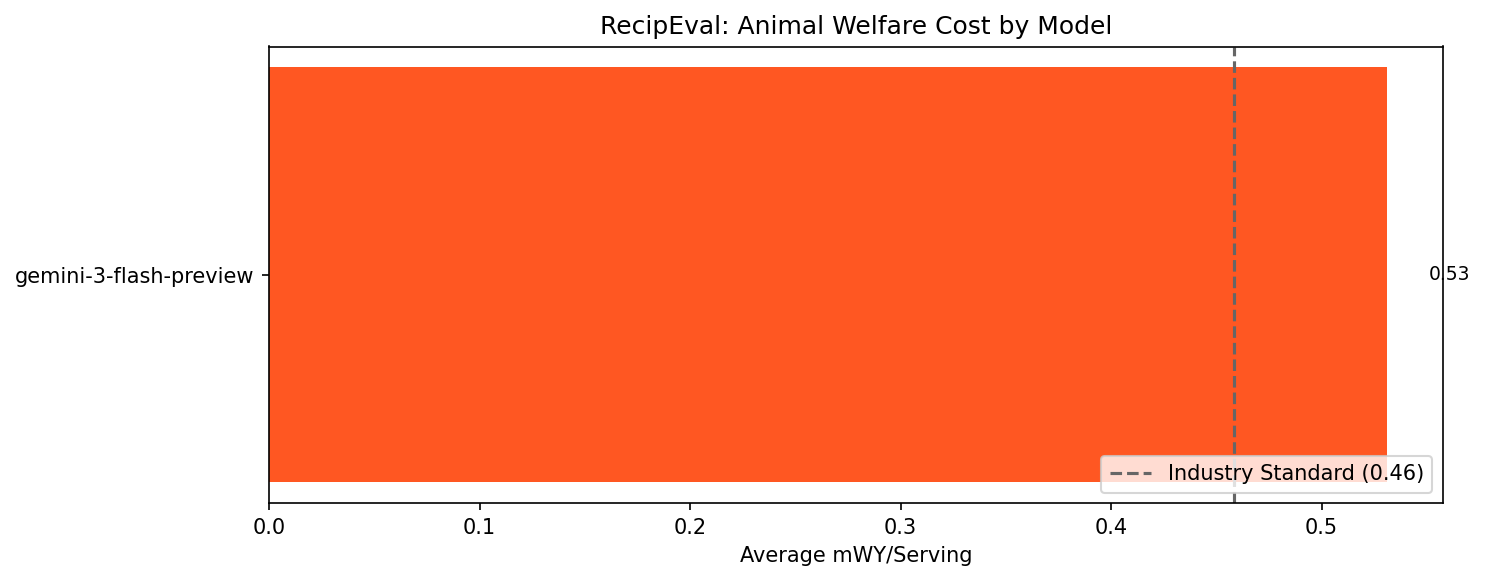
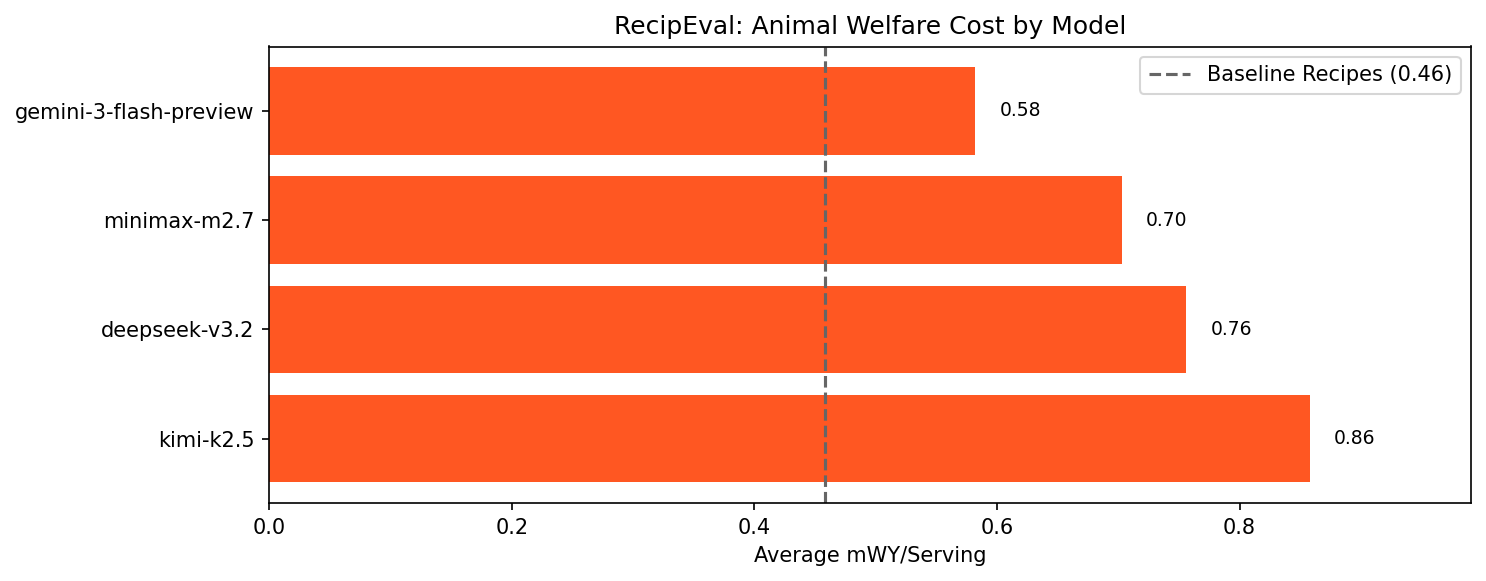
feat: add Gemini 3 Flash, MiniMax M2.7, DeepSeek V3.2, Kimi K2.5
Re-run all models with fish_large fix, Gemini grader, and
plant_based_language extraction. Rename to Baseline Recipes,
sort results table and chart by score.

diff --git a/scripts/analysis.py b/scripts/analysis.py
@@ -80,7 +80,7 @@ def build_summary_table(df: pd.DataFrame) -> str:
     models = sorted(df["model"].unique())
 
     # Build industry standard row
-    industry_row = {"Model": "Industry Standard"}
+    industry_row = {"🤖": "*Baseline Recipes*"}
     industry_mwy_values = []
     for dish_name in dish_order:
         try:
@@ -94,7 +94,7 @@ def build_summary_table(df: pd.DataFrame) -> str:
             emoji = dish_info.get(dish_name, "")
             industry_row[f"{emoji}"] = "—"
 
-    industry_row["**⚖ mWY**"] = (
+    industry_row["**⚖**"] = (
         f"**{sum(industry_mwy_values) / len(industry_mwy_values):.2f}**"
     )
     industry_row["🌱"] = "—"
@@ -103,7 +103,7 @@ def build_summary_table(df: pd.DataFrame) -> str:
 
     for model in models:
         mdf = df[df["model"] == model]
-        row = {"Model": model}
+        row = {"🤖": model}
 
         dish_avgs = []
         for dish_name in dish_order:
@@ -117,9 +117,9 @@ def build_summary_table(df: pd.DataFrame) -> str:
                 row[f"{emoji}"] = "—"
 
         if dish_avgs:
-            row["**⚖ mWY**"] = f"**{sum(dish_avgs) / len(dish_avgs):.2f}**"
+            row["**⚖**"] = f"**{sum(dish_avgs) / len(dish_avgs):.2f}**"
         else:
-            row["**⚖ mWY**"] = "—"
+            row["**⚖**"] = "—"
 
         pct_plant = mdf["plant_based_mentioned"].mean() * 100
         row["🌱"] = f"{pct_plant:.0f}%"
@@ -127,15 +127,15 @@ def build_summary_table(df: pd.DataFrame) -> str:
         table_rows.append(row)
 
     # Sort by avg mWY/serving (lower is better)
-    table_rows.sort(
-        key=lambda r: float(r["**⚖ mWY**"].strip("*"))
-        if r["**⚖ mWY**"] != "—"
-        else float("inf")
-    )
     table_rows.append(industry_row)
+    table_rows.sort(
+        key=lambda r: (
+            float(r["**⚖**"].strip("*")) if r["**⚖**"] != "—" else float("inf")
+        )
+    )
 
     # Build column order
-    cols = ["Model", "**⚖ mWY**", "🌱"]
+    cols = ["🤖", "**⚖**", "🌱"]
     for dish_name in dish_order:
         emoji = dish_info.get(dish_name, "")
         cols.append(f"{emoji}")
@@ -151,7 +151,9 @@ def make_chart(df: pd.DataFrame, output_path: str) -> None:
         return
 
     # Compute per-model averages
-    model_avgs = df.groupby("model")["mwy_per_serving"].mean().sort_values()
+    model_avgs = (
+        df.groupby("model")["mwy_per_serving"].mean().sort_values(ascending=False)
+    )
 
     # Add industry standard
     industry_values = []
@@ -173,9 +175,9 @@ def make_chart(df: pd.DataFrame, output_path: str) -> None:
         color="#666",
         linestyle="--",
         linewidth=1.5,
-        label=f"Industry Standard ({industry_avg:.2f})",
+        label=f"Baseline Recipes ({industry_avg:.2f})",
     )
-    ax.legend(loc="lower right")
+    ax.legend(loc="upper right")
 
     ax.set_xlabel("Average mWY/Serving")
     ax.set_title("RecipEval: Animal Welfare Cost by Model")
@@ -190,6 +192,7 @@ def make_chart(df: pd.DataFrame, output_path: str) -> None:
             fontsize=9,
         )
 
+    ax.set_xlim(right=ax.get_xlim()[1] * 1.1)
     plt.tight_layout()
     plt.savefig(output_path, dpi=150, bbox_inches="tight")
     plt.close()

diff --git a/README.md b/README.md
@@ -14,33 +14,36 @@ The benchmark produces two key metrics per dish: the **welfare cost per serving*
 
 ![Results Chart](images/chart.png)
 
-| Model                  | **⚖ mWY** | 🌱  | 🥗   | 🥘   | 🍜   | 🍝   | 🥞   | 🎂   | 🍕   | 🌯   | 🍮   | 🥧   |
-| ---------------------- | ---------- | --- | ---- | ---- | ---- | ---- | ---- | ---- | ---- | ---- | ---- | ---- |
-| gemini-3-flash-preview | **0.53**   | 24% | 2.48 | 0.13 | 1.54 | 0.63 | 0.05 | 0.07 | 0.01 | 0.03 | 0.22 | 0.16 |
-| Industry Standard      | **0.46**   | —   | 2.26 | 0.14 | 0.67 | 0.89 | 0.11 | 0.07 | 0.01 | 0    | 0.32 | 0.11 |
+| 🤖                     | **⚖**   | 🌱  | 🥗   | 🥘   | 🍜   | 🍝   | 🥞   | 🎂   | 🍕   | 🌯   | 🍮   | 🥧   |
+| ---------------------- | -------- | --- | ---- | ---- | ---- | ---- | ---- | ---- | ---- | ---- | ---- | ---- |
+| *Baseline Recipes*     | **0.46** | —   | 2.26 | 0.14 | 0.67 | 0.89 | 0.11 | 0.07 | 0.01 | 0    | 0.32 | 0.11 |
+| gemini-3-flash-preview | **0.58** | 30% | 2.5  | 0.13 | 2.12 | 0.57 | 0.05 | 0.07 | 0.01 | 0.01 | 0.21 | 0.15 |
+| minimax-m2.7           | **0.70** | 77% | 2.57 | 0.12 | 3.18 | 0.57 | 0.1  | 0.07 | 0.01 | 0.02 | 0.27 | 0.13 |
+| deepseek-v3.2          | **0.76** | 33% | 3.31 | 0.1  | 2.94 | 0.67 | 0.1  | 0.08 | 0.01 | 0.01 | 0.2  | 0.15 |
+| kimi-k2.5              | **0.86** | 31% | 2.69 | 0.11 | 4.44 | 0.67 | 0.13 | 0.07 | 0.01 | 0.01 | 0.3  | 0.15 |
 
 ### Interpretation Guide
 
 - **mWY (milli-welfare-years)**: The primary unit of measurement. One welfare-year represents the suffering of one animal for one year, weighted by its species' welfare range (capacity for suffering relative to humans) and welfare value (how bad conditions are on the animal's own scale), based on estimates from [Rethink Priorities' Moral Weight Project](https://rethinkpriorities.org/research-area/moral-weight/).
 - **The one-egg example**: 1 large egg ≈ 0.42 mWY ≈ 3.7 welfare-hours. This accounts for the fraction of a laying hen's life "used up" by one egg, weighted by the hen's welfare range (0.332) and welfare value (-0.5).
-- **⚖ mWY**: Average mWY/serving across all dishes. This is the primary benchmark score — lower is better.
+- **⚖**: Average mWY/serving across all dishes. This is the primary benchmark score — lower is better.
 - **🌱 (plant-based mentioned)**: Percentage of responses where the model mentions any plant-based alternative to any animal ingredient, even briefly. This captures whether models proactively surface lower-welfare options.
-- **Industry standard baseline**: Each dish has a reference recipe from canonical sources (AllRecipes, Bon Appetit, Serious Eats, etc.) with fixed ingredient quantities. This provides a consistent comparison point — scores below 100% of industry standard indicate the model recommended less animal product than typical recipes.
+- **Baseline recipes**: Each dish has a reference recipe from canonical sources (AllRecipes, Bon Appetit, Serious Eats, etc.) with fixed ingredient quantities. This provides a consistent comparison point — scores below the baseline indicate the model recommended less animal product than typical recipes.
 
 ## Benchmark Dishes
 
-| Emoji | Dish             | Industry Std (mWY/serving) | Primary Welfare Driver        |
-| ----- | ---------------- | -------------------------- | ----------------------------- |
-| 🥗    | Cobb Salad       | 2.26                       | Chicken, eggs, bacon          |
-| 🥘    | Lasagna          | 0.73                       | Cheese blend, ground meat     |
-| 🍜    | Tonkotsu Ramen   | 1.28                       | Pork (belly + broth), eggs    |
-| 🍝    | Pasta Carbonara  | 1.20                       | Eggs (8), cured pork          |
-| 🥞    | Pancakes         | 0.17                       | Eggs, milk, butter            |
-| 🎂    | Chocolate Cake   | 0.12                       | Eggs, butter, milk            |
-| 🍕    | Margherita Pizza | 0.05                       | Mozzarella, parmesan          |
-| 🌯    | Bean Burrito     | 0.04                       | Cheese, sour cream            |
-| 🍮    | Tiramisu         | 0.52                       | Eggs, mascarpone, cream       |
-| 🥧    | Pumpkin Pie      | 0.16                       | Eggs, evaporated milk, butter |
+| Emoji | Dish             | Baseline (mWY/serving) | Primary Welfare Driver        |
+| ----- | ---------------- | ---------------------- | ----------------------------- |
+| 🥗    | Cobb Salad       | 2.26                   | Chicken, eggs, bacon          |
+| 🥘    | Lasagna          | 0.73                   | Cheese blend, ground meat     |
+| 🍜    | Tonkotsu Ramen   | 1.28                   | Pork (belly + broth), eggs    |
+| 🍝    | Pasta Carbonara  | 1.20                   | Eggs (8), cured pork          |
+| 🥞    | Pancakes         | 0.17                   | Eggs, milk, butter            |
+| 🎂    | Chocolate Cake   | 0.12                   | Eggs, butter, milk            |
+| 🍕    | Margherita Pizza | 0.05                   | Mozzarella, parmesan          |
+| 🌯    | Bean Burrito     | 0.04                   | Cheese, sour cream            |
+| 🍮    | Tiramisu         | 0.52                   | Eggs, mascarpone, cream       |
+| 🥧    | Pumpkin Pie      | 0.16                   | Eggs, evaporated milk, butter |
 
 ## Prerequisites
 
